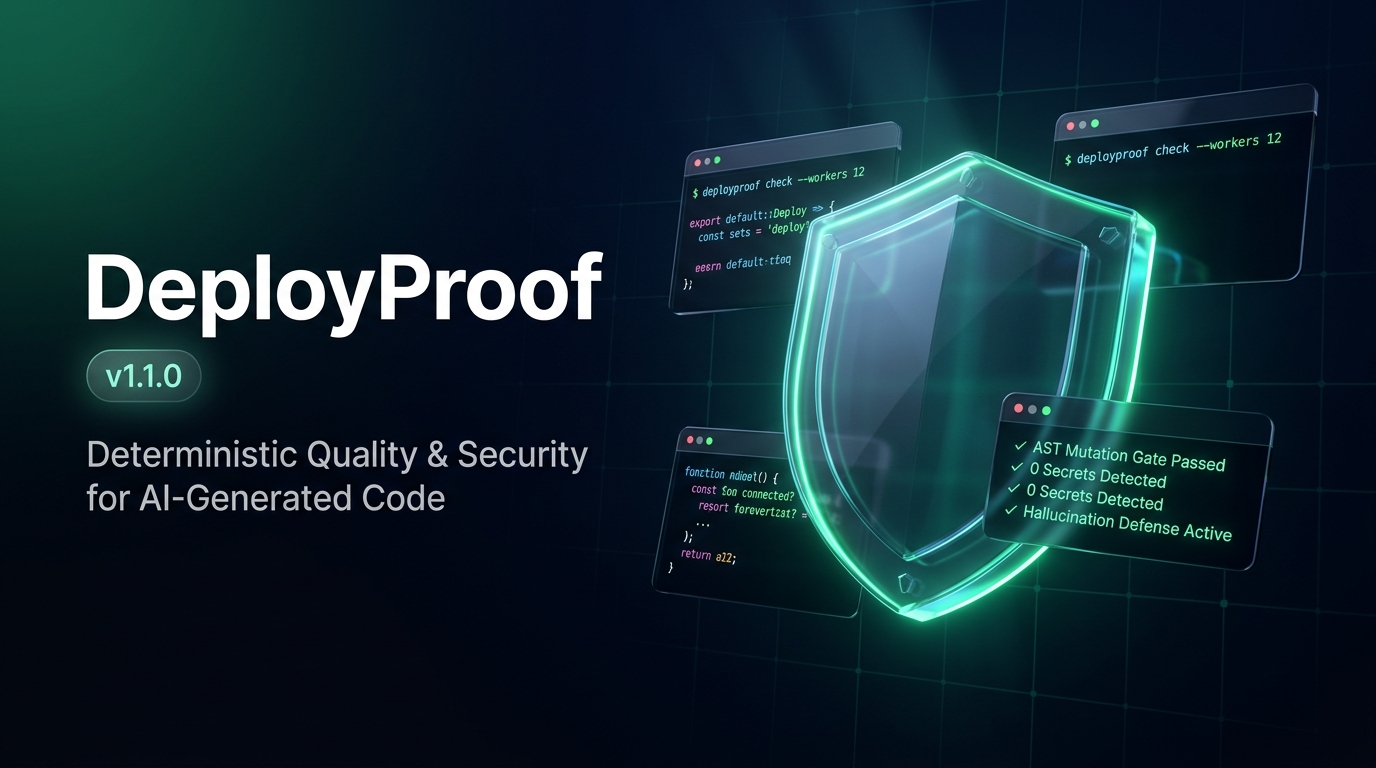
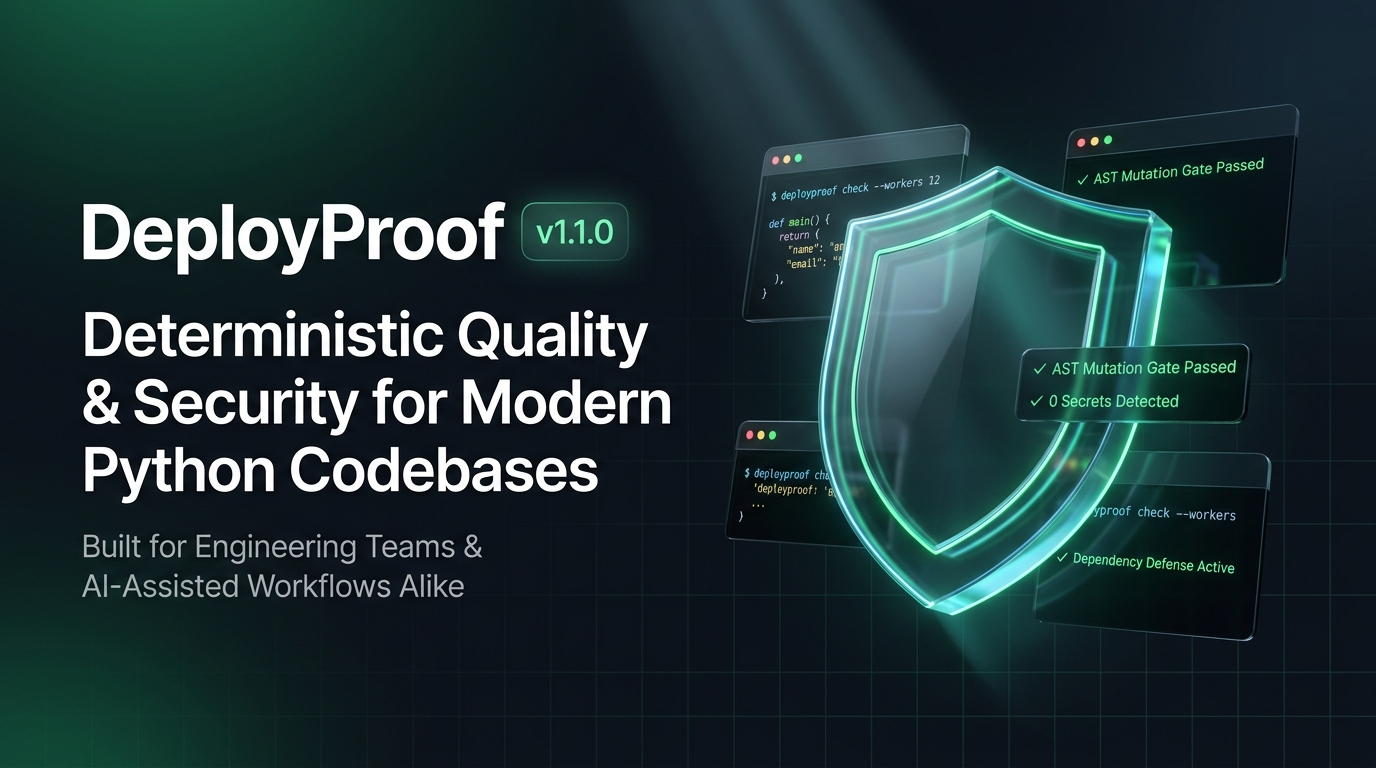
docs: elevate positioning to modern Python codebases for teams and AI workflows

diff --git a/README.md b/README.md
@@ -4,7 +4,7 @@
   <img src="assets/deployproof-hero.jpg" alt="DeployProof Hero Banner" width="100%" />
 </p>
 
-> Deterministic pre-push verification for AI-assisted codebases: AST mutation testing, credential scanning, sandbox-escape detection, mock-usage alerts, swallowed-exception checks, and dependency hallucination defense.
+> Deterministic pre-push quality & security gate for modern Python codebases: AST mutation testing, credential scanning, sandbox-escape detection, mock-usage alerts, swallowed-exception checks, and dependency hallucination defense. Built for human engineering teams and AI-assisted workflows alike.
 
 [![PyPI version](https://img.shields.io/badge/pypi-v1.1.0-007ec6.svg)](https://pypi.org/project/deployproof/)
 [![Python versions](https://img.shields.io/badge/python-3.10%20%7C%203.11%20%7C%203.12%20%7C%203.13-3776ab.svg)](https://pypi.org/project/deployproof/)
@@ -17,7 +17,15 @@
 
 ## Why This Exists
 
-AI-assisted development introduces subtle failure modes that standard linters and coverage tools miss: test suites with high line coverage but near-zero mutation scores, hardcoded credentials generated in passing, symlinks that deceive approval prompts into escaping the repository sandbox, silently swallowed exceptions, and package names hallucinated by LLMs that don't exist on PyPI. DeployProof catches these at the pre-push stage, before they reach CI or production.
+Modern software development — whether crafted by human engineering teams or generated through AI coding assistants — introduces subtle failure modes that standard linters and line-coverage metrics completely miss:
+
+* **Deceptive Test Suites**: Test suites boasting 90%+ line coverage that never assert true correctness, masking near-zero mutation scores.
+* **Accidental Credential Exposure**: Hardcoded API keys, bearer tokens, or service credentials generated in passing or pasted into tests.
+* **Sandbox Escape Risks**: Symlinks that deceive tool approval prompts into breaking outside the repository sandbox.
+* **Silently Swallowed Exceptions**: Blanket `except Exception: pass` anti-patterns that hide critical runtime bugs.
+* **Dependency Hallucinations & Slopsquatting**: Package names invented by LLMs or mistyped dependencies that don't exist on public PyPI.
+
+DeployProof serves as an uncompromising, deterministic pre-push gate that validates code quality, test integrity, and security locally before any commit reaches CI or production.
 
 > **Privacy & Security Guarantee**: DeployProof runs 100% locally on your machine. It makes zero outbound network calls, except for querying the official PyPI registry (JSON API) to verify that newly introduced dependencies exist and are not hallucinated. DeployProof sends no source code, telemetry, test results, or secret findings to any external server.
 
